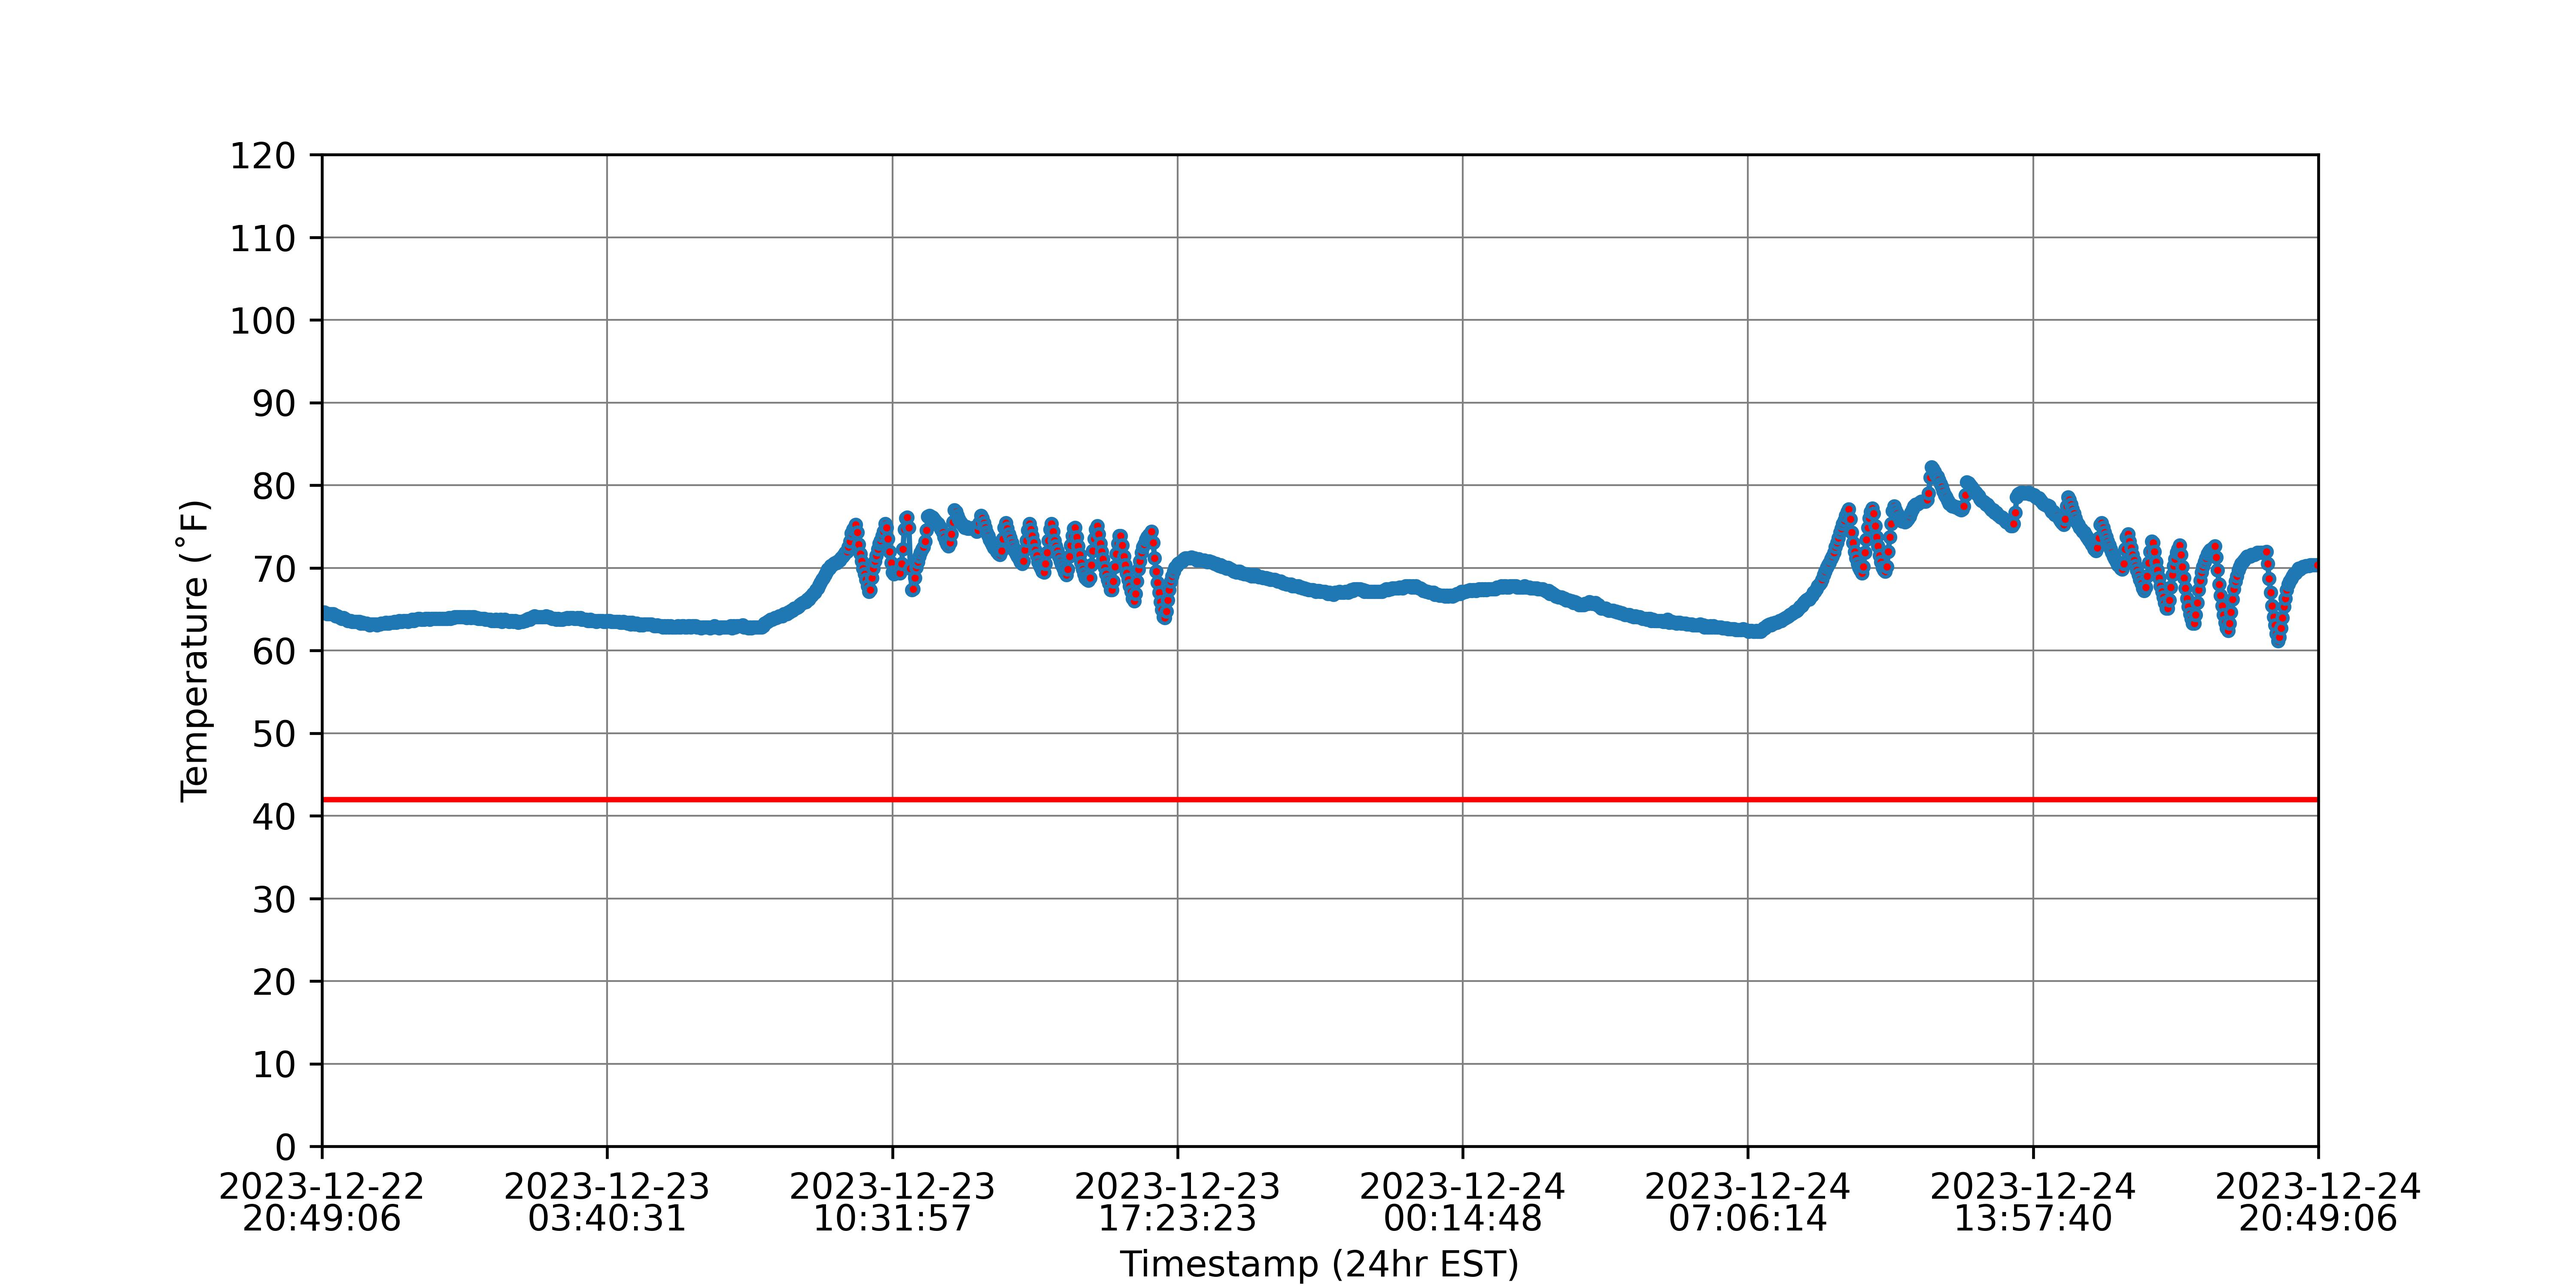
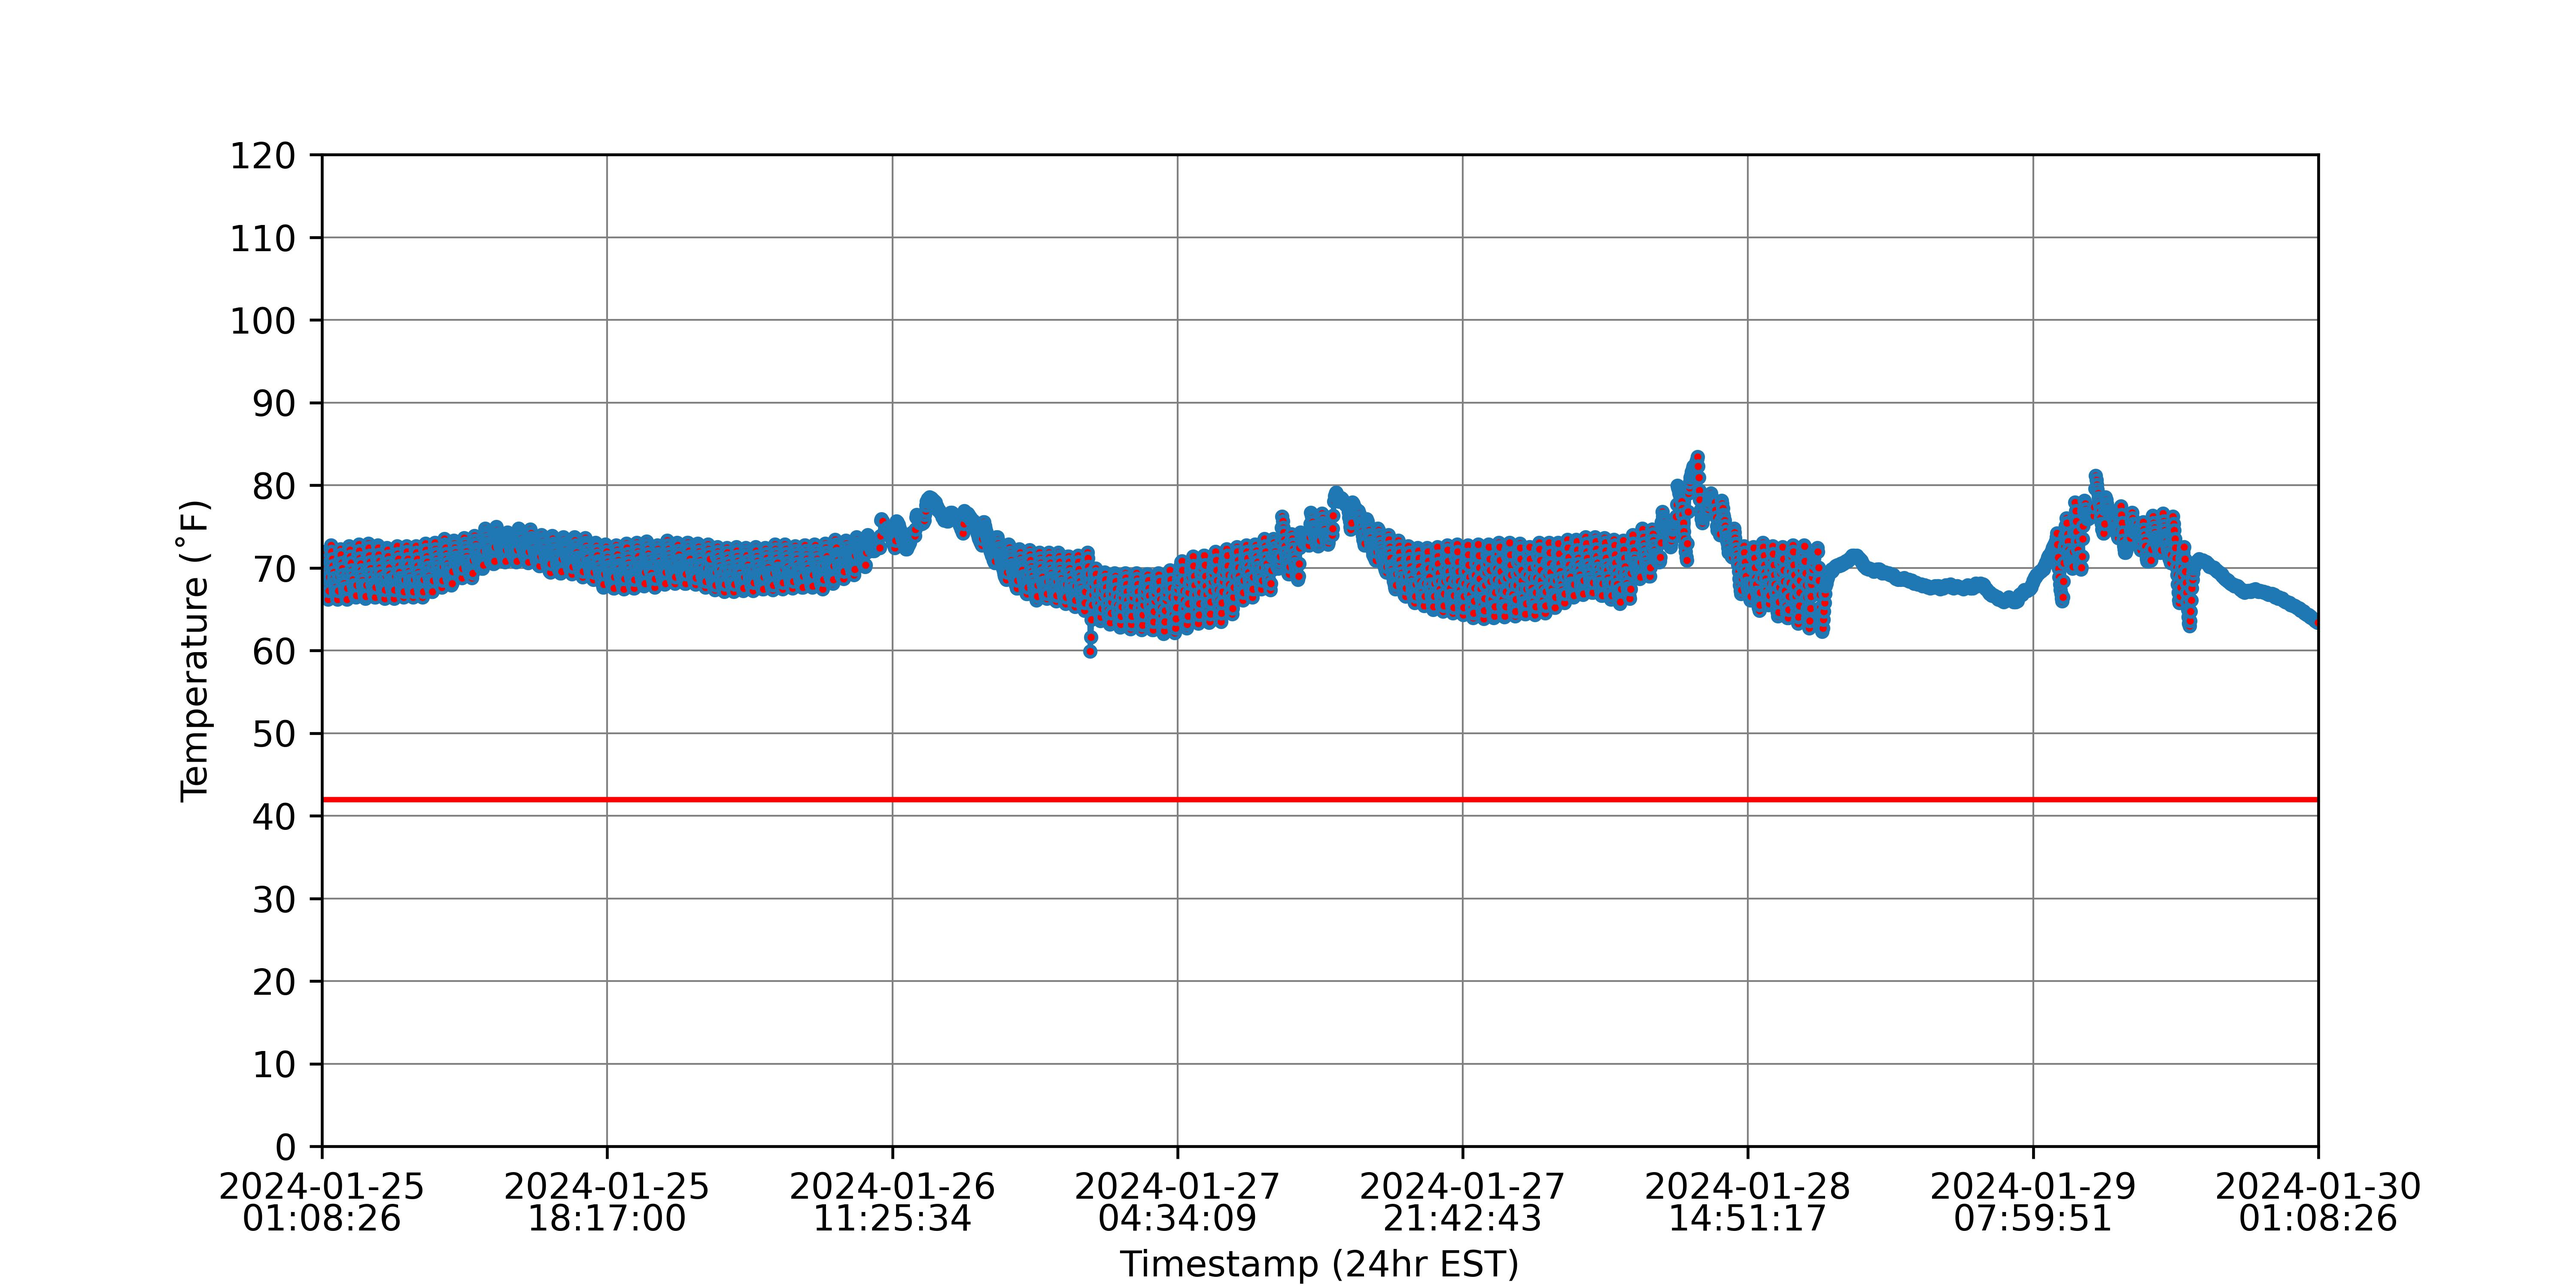
Updated graph function with datetimepicker

diff --git a/Python/webserver/templates/graph.html b/Python/webserver/templates/graph.html
@@ -22,11 +22,21 @@
     <div style="width: fit-content; align-items: center;">
         <form style="align-items: center;" method="get" action="/graph" autocomplete="off">
             <div style="display: inline">
-                <h4>Enter a Time Code</h4>
+                <h4>Enter a Time Code for the Length of Time Period to Graph</h4>
                 {% for Key, Value in KeyDict.items() %}
                 <input type="hidden" name="{{Key}}" value="{{ Value }}">
                 {% endfor %}
                 <input type="text" name="Time">
+                <input type="submit">
+            </div>
+        </form>
+        <form>
+            <div style="display: inline;">
+                <h4>Enter an End Date</h4>
+                {% for Key, Value in KeyDict.items() %}
+                <input type="hidden" name="{{Key}}" value="{{ Value }}">
+                {% endfor %}
+                <input type="datetime-local" name="EndDate">
                 <input type="submit">
             </div>
         </form>

diff --git a/Python/webserver/main.py b/Python/webserver/main.py
@@ -100,7 +100,7 @@ def preserve_arguments(arguments,keys=True,dict_ret=False,rem_graph=False):
     for each in arguments.keys():
         if (each in ["ReadKey","WriteKey"] and not keys):
             pass
-        elif (rem_graph and each in ["Time","EndDate"]):
+        elif (rem_graph and (each in ["Time","EndDate"])):
             pass
         elif dict_ret:
             holder_dict[each] = arguments[each]
@@ -199,8 +199,8 @@ def show_graph():
             stop_point = parser.parse(arguments["EndDate"])
         success = generate_plot(oldest_point,stop_point)
         if success == 0:
-            holder = {"ImagePath":"static/graph.jpg","Keys":preserve_arguments(arguments)}
-            return render_template("graph.html",**holder, KeyDict=preserve_arguments(arguments,dict_ret=True,rem_graph=True))
+            holder = {"ImagePath":"static/graph.jpg","Keys":preserve_arguments(arguments,rem_graph=True)}
+            return render_template("graph.html",**holder, KeyDict=preserve_arguments(arguments,dict_ret=True))
         else:
             holder = {"Err_Desc":success,"Keys":preserve_arguments(arguments)}
             return render_template("error.html",**holder)
